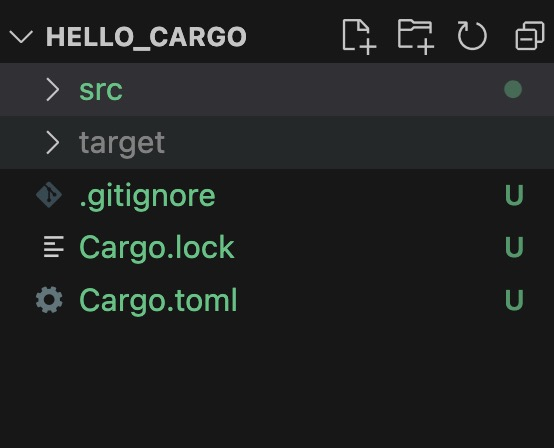
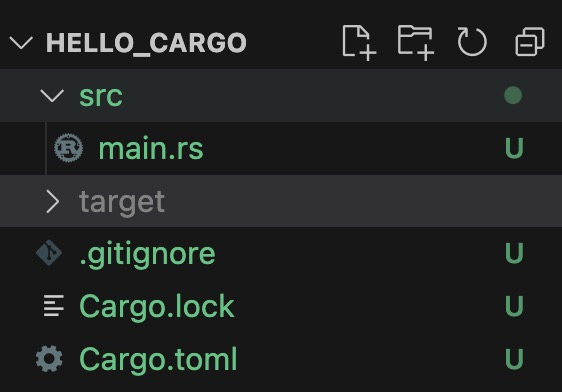
Site updated: 2024-10-22 15:18:35

diff --git a/2024/10/22/rust_firstday/index.html b/2024/10/22/rust_firstday/index.html
@@ -87,8 +87,15 @@
 <meta property="og:description" content="环境搭建  1. 环境安装Rust环境安装比较简单。在terminal输入:  $curl --proto &#39;&#x3D;https&#39; --tlsv1.2 https:&#x2F;&#x2F;sh.rustup.rs -sSf | sh 这条命令用户安装Rust的管理工具rustup。 安装成功会提示：Rust is installed now. Greate!  2. 常见命令 更新Rust: rustup">
 <meta property="og:locale" content="en_US">
 <meta property="og:image" content="http://example.com/images/project.jpg">
+<meta property="og:image" content="http://example.com/images/main.jpg">
+<meta property="og:image" content="http://example.com/images/target.jpg">
+<meta property="og:image" content="http://example.com/images/toml.jpg">
+<meta property="og:image" content="http://example.com/images/run.jpg">
+<meta property="og:image" content="http://example.com/images/debug.jpg">
+<meta property="og:image" content="http://example.com/images/release.jpg">
+<meta property="og:image" content="http://example.com/images/cargoconfig.jpg">
 <meta property="article:published_time" content="2024-10-22T03:02:38.250Z">
-<meta property="article:modified_time" content="2024-10-22T06:45:47.020Z">
+<meta property="article:modified_time" content="2024-10-22T07:18:21.310Z">
 <meta property="article:author" content="John Doe">
 <meta name="twitter:card" content="summary">
 <meta name="twitter:image" content="http://example.com/images/project.jpg">
@@ -404,8 +411,37 @@
 </li>
 </ul>
 <h3 id="4-创建第一个rust项目"><a href="#4-创建第一个rust项目" class="headerlink" title="4. 创建第一个rust项目"></a>4. 创建第一个rust项目</h3><ul>
-<li>cargo new hello_cargo<br>  cd hello_cargo</li>
-<li>下边是项目目录<br><img src="/../images/project.jpg"></li>
+<li><p>cargo new hello_cargo<br>  cd hello_cargo</p>
+</li>
+<li><p>下边是项目目录<br><img src="/../images/project.jpg"></p>
+<ul>
+<li><p>src目录用于存放rust源码文件。rust项目的代码都存放在这里。<br>  <img src="/../images/main.jpg"></p>
+</li>
+<li><p>target目录: cargo编译代码时生成的文件都会存放在此目录中，其中包含中间文件、可执行文件等。<br>  <img src="/../images/target.jpg"></p>
+</li>
+<li><p>Cargo.toml文件: 此文件是项目的配置文件，管理项目等元数据、依赖和编译选项。<br>  <img src="/../images/toml.jpg"></p>
+<ul>
+<li>pakage: 定义包的基本信息，如名称、版本和Rust版本</li>
+<li>dependencies: 累出所需的依赖包及其版本，cargo会根据这些配置自动下载依赖项。</li>
+</ul>
+</li>
+</ul>
+</li>
+</ul>
+<h3 id="5-使用cargo编译运行rust项目"><a href="#5-使用cargo编译运行rust项目" class="headerlink" title="5. 使用cargo编译运行rust项目"></a>5. 使用cargo编译运行rust项目</h3><ul>
+<li><code>cargo run: </code> 此命令会在target&#x2F;debug目录下生成可执行文件<br>  <img src="/../images/run.jpg"></li>
+<li><code>cargo run/build --debug/--release</code>: <ul>
+<li><code>debug</code>模式: debug为默认模式, 生成的文件会包含调试信息，便于调试和错误追踪，使用debug进行编译未进行优化，编译速度快，但是运行速度慢。 生成的文件位于target&#x2F;debug下。<br>  <img src="/../images/debug.jpg"><br>  <strong>默认使用debug模式，所以会报错，不需要加–debug</strong></li>
+<li><code>release</code>模式: release模式会启用编译起优化, 生成更小且更快的可执行文件，因为编译过程中编译起对其进行了优化，所以编译速度比较慢。生成的文件位于targer&#x2F;release下。<br>  <img src="/../images/release.jpg"></li>
+</ul>
+</li>
+</ul>
+<h3 id="6-cargo配置toml源"><a href="#6-cargo配置toml源" class="headerlink" title="6. cargo配置toml源"></a>6. cargo配置toml源</h3><ul>
+<li>文件位于 ~&#x2F;.cargo&#x2F;config.toml<br><img src="/../images/cargoconfig.jpg"><ul>
+<li></li>
+<li>[source.ustc]: 指定USTC的镜像地址，其中sparse+的意思表示使用Sparse Protocol是crates.io推出的协议。</li>
+</ul>
+</li>
 </ul>
 
       
@@ -537,7 +573,7 @@
             
 
             
-              <div class="post-toc-content"><ol class="nav"><li class="nav-item nav-level-1"><a class="nav-link"><span class="nav-number">1.</span> <span class="nav-text">环境搭建</span></a><ol class="nav-child"><li class="nav-item nav-level-3"><a class="nav-link" href="#1-%E7%8E%AF%E5%A2%83%E5%AE%89%E8%A3%85"><span class="nav-number">1.0.1.</span> <span class="nav-text">1. 环境安装</span></a></li><li class="nav-item nav-level-3"><a class="nav-link" href="#2-%E5%B8%B8%E8%A7%81%E5%91%BD%E4%BB%A4"><span class="nav-number">1.0.2.</span> <span class="nav-text">2. 常见命令</span></a></li><li class="nav-item nav-level-3"><a class="nav-link" href="#3-cargo%E5%B8%B8%E8%A7%81%E5%91%BD%E4%BB%A4"><span class="nav-number">1.0.3.</span> <span class="nav-text">3. cargo常见命令</span></a></li><li class="nav-item nav-level-3"><a class="nav-link" href="#4-%E5%88%9B%E5%BB%BA%E7%AC%AC%E4%B8%80%E4%B8%AArust%E9%A1%B9%E7%9B%AE"><span class="nav-number">1.0.4.</span> <span class="nav-text">4. 创建第一个rust项目</span></a></li></ol></li></ol></li></ol></div>
+              <div class="post-toc-content"><ol class="nav"><li class="nav-item nav-level-1"><a class="nav-link"><span class="nav-number">1.</span> <span class="nav-text">环境搭建</span></a><ol class="nav-child"><li class="nav-item nav-level-3"><a class="nav-link" href="#1-%E7%8E%AF%E5%A2%83%E5%AE%89%E8%A3%85"><span class="nav-number">1.0.1.</span> <span class="nav-text">1. 环境安装</span></a></li><li class="nav-item nav-level-3"><a class="nav-link" href="#2-%E5%B8%B8%E8%A7%81%E5%91%BD%E4%BB%A4"><span class="nav-number">1.0.2.</span> <span class="nav-text">2. 常见命令</span></a></li><li class="nav-item nav-level-3"><a class="nav-link" href="#3-cargo%E5%B8%B8%E8%A7%81%E5%91%BD%E4%BB%A4"><span class="nav-number">1.0.3.</span> <span class="nav-text">3. cargo常见命令</span></a></li><li class="nav-item nav-level-3"><a class="nav-link" href="#4-%E5%88%9B%E5%BB%BA%E7%AC%AC%E4%B8%80%E4%B8%AArust%E9%A1%B9%E7%9B%AE"><span class="nav-number">1.0.4.</span> <span class="nav-text">4. 创建第一个rust项目</span></a></li><li class="nav-item nav-level-3"><a class="nav-link" href="#5-%E4%BD%BF%E7%94%A8cargo%E7%BC%96%E8%AF%91%E8%BF%90%E8%A1%8Crust%E9%A1%B9%E7%9B%AE"><span class="nav-number">1.0.5.</span> <span class="nav-text">5. 使用cargo编译运行rust项目</span></a></li><li class="nav-item nav-level-3"><a class="nav-link" href="#6-cargo%E9%85%8D%E7%BD%AEtoml%E6%BA%90"><span class="nav-number">1.0.6.</span> <span class="nav-text">6. cargo配置toml源</span></a></li></ol></li></ol></li></ol></div>
             
 
           </div>

diff --git a/index.html b/index.html
@@ -403,8 +403,37 @@
 </li>
 </ul>
 <h3 id="4-创建第一个rust项目"><a href="#4-创建第一个rust项目" class="headerlink" title="4. 创建第一个rust项目"></a>4. 创建第一个rust项目</h3><ul>
-<li>cargo new hello_cargo<br>  cd hello_cargo</li>
-<li>下边是项目目录<br><img src="/../images/project.jpg"></li>
+<li><p>cargo new hello_cargo<br>  cd hello_cargo</p>
+</li>
+<li><p>下边是项目目录<br><img src="/../images/project.jpg"></p>
+<ul>
+<li><p>src目录用于存放rust源码文件。rust项目的代码都存放在这里。<br>  <img src="/../images/main.jpg"></p>
+</li>
+<li><p>target目录: cargo编译代码时生成的文件都会存放在此目录中，其中包含中间文件、可执行文件等。<br>  <img src="/../images/target.jpg"></p>
+</li>
+<li><p>Cargo.toml文件: 此文件是项目的配置文件，管理项目等元数据、依赖和编译选项。<br>  <img src="/../images/toml.jpg"></p>
+<ul>
+<li>pakage: 定义包的基本信息，如名称、版本和Rust版本</li>
+<li>dependencies: 累出所需的依赖包及其版本，cargo会根据这些配置自动下载依赖项。</li>
+</ul>
+</li>
+</ul>
+</li>
+</ul>
+<h3 id="5-使用cargo编译运行rust项目"><a href="#5-使用cargo编译运行rust项目" class="headerlink" title="5. 使用cargo编译运行rust项目"></a>5. 使用cargo编译运行rust项目</h3><ul>
+<li><code>cargo run: </code> 此命令会在target&#x2F;debug目录下生成可执行文件<br>  <img src="/../images/run.jpg"></li>
+<li><code>cargo run/build --debug/--release</code>: <ul>
+<li><code>debug</code>模式: debug为默认模式, 生成的文件会包含调试信息，便于调试和错误追踪，使用debug进行编译未进行优化，编译速度快，但是运行速度慢。 生成的文件位于target&#x2F;debug下。<br>  <img src="/../images/debug.jpg"><br>  <strong>默认使用debug模式，所以会报错，不需要加–debug</strong></li>
+<li><code>release</code>模式: release模式会启用编译起优化, 生成更小且更快的可执行文件，因为编译过程中编译起对其进行了优化，所以编译速度比较慢。生成的文件位于targer&#x2F;release下。<br>  <img src="/../images/release.jpg"></li>
+</ul>
+</li>
+</ul>
+<h3 id="6-cargo配置toml源"><a href="#6-cargo配置toml源" class="headerlink" title="6. cargo配置toml源"></a>6. cargo配置toml源</h3><ul>
+<li>文件位于 ~&#x2F;.cargo&#x2F;config.toml<br><img src="/../images/cargoconfig.jpg"><ul>
+<li></li>
+<li>[source.ustc]: 指定USTC的镜像地址，其中sparse+的意思表示使用Sparse Protocol是crates.io推出的协议。</li>
+</ul>
+</li>
 </ul>
 
           

diff --git a/css/main.css b/css/main.css
@@ -1822,7 +1822,7 @@ pre .javascript .function {
   width: 4px;
   height: 4px;
   border-radius: 50%;
-  background: #f11b08;
+  background: #c3419f;
 }
 .links-of-blogroll {
   font-size: 13px;
